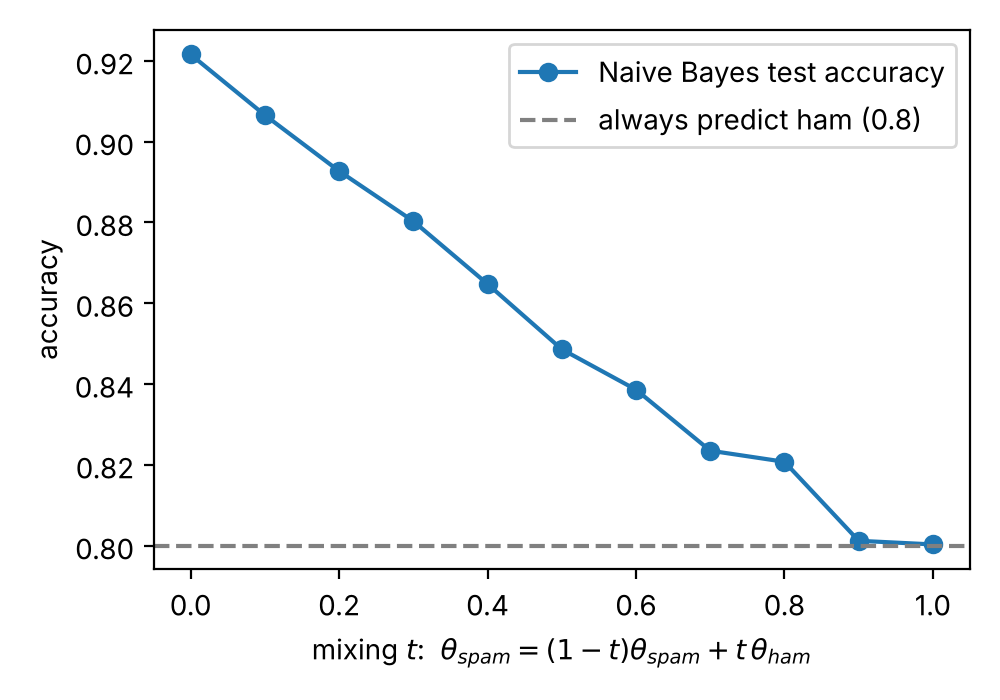
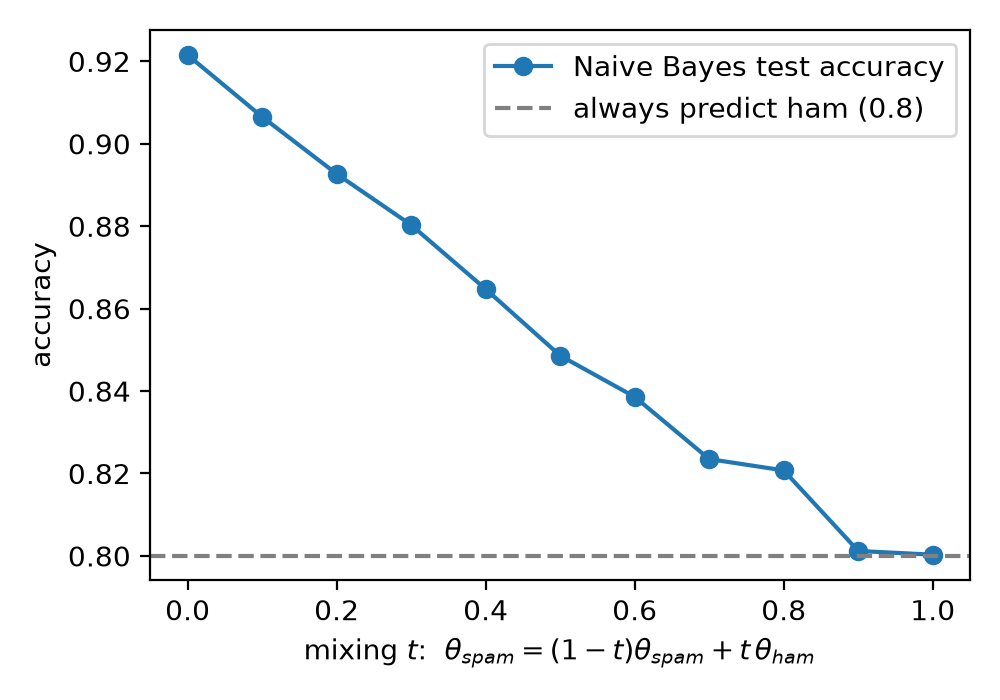
Iteration 2: math foundation, data loading, simulation check

diff --git a/docs/iteration2_report.tex b/docs/iteration2_report.tex
@@ -43,8 +43,8 @@
 
 \noindent\textbf{Project Leader (Iteration 2):} Jeevan Mandala\\
 \textbf{Repository:} 
-\href{https://github.com/Jeev2727/Ds5020-naive-bayes-classifier}{\texttt{Github repo}} 
-\textbf{Overleaf:} \href{https://www.overleaf.com/project/6af8e7c4a2e68e546f457ae0/share\#96183df2ea7e80e3119e925675021469490224631bf61309}{\texttt{Latex code}} 
+\href{https://github.com/Jeev2727/Ds5020-naive-bayes-classifier}{\texttt{Github repo}} \\
+\textbf{Overleaf:} \href{https://www.overleaf.com/project/6af8e7c4a2e68e546f457ae0/share#96183df2ea7e80e3119e925675021469490224631bf61309}{\texttt{Latex code}} 
 
 \tableofcontents
 

diff --git a/README.md b/README.md
@@ -35,7 +35,7 @@ The raw dataset is not stored in Git. Download one of these and place it in `dat
 
 ## How to run
 
-Python 3.10+ with the packages in `requirements.txt` (numpy, pandas, matplotlib, scipy).
+Python 3.12+ with the packages in `requirements.txt` (numpy, pandas, matplotlib, scipy).
 
 ```bash
 pip install -r requirements.txt
